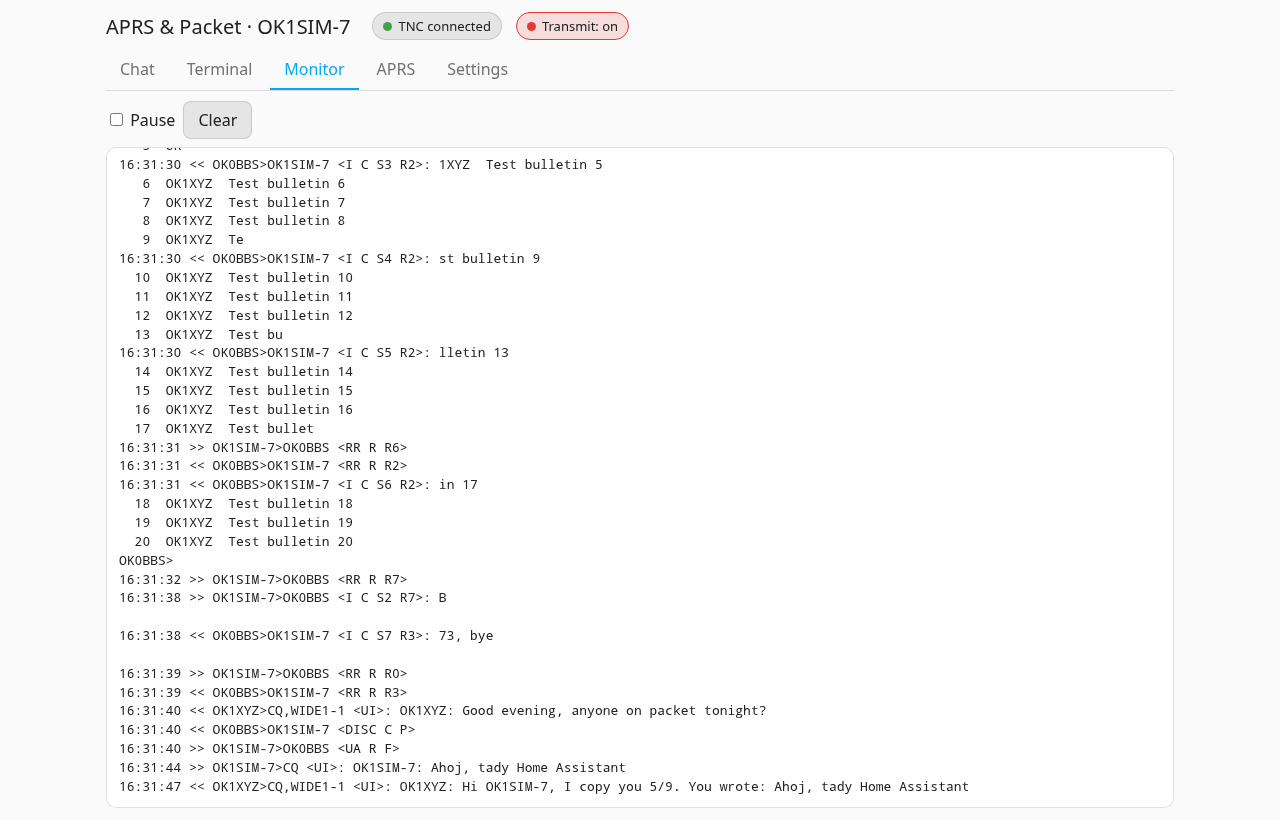
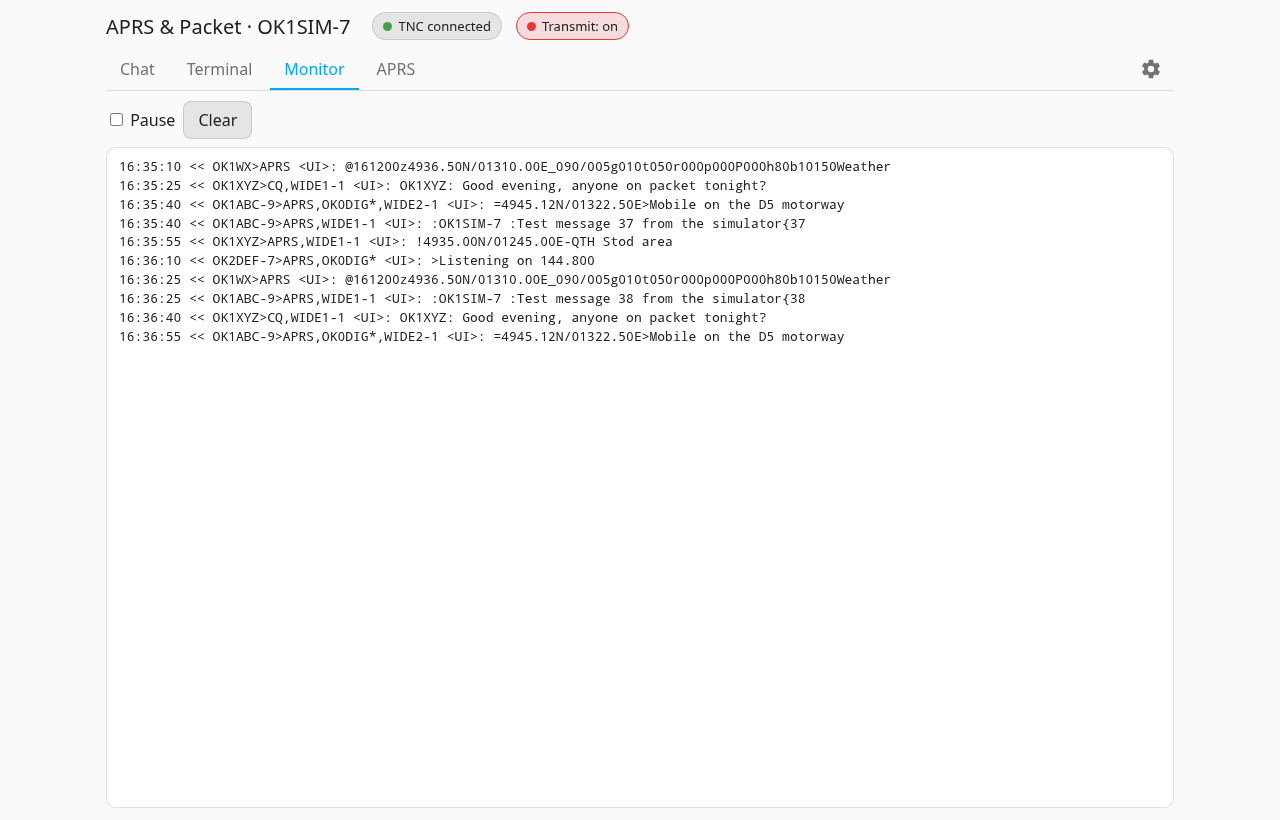
0.3.1: APRS-IS password field, phone-friendly panel

diff --git a/custom_components/aprs_kiss/frontend/aprs-kiss-panel.js b/custom_components/aprs_kiss/frontend/aprs-kiss-panel.js
@@ -32,9 +32,12 @@ const SYMBOLS = [
   ['/o', '🏢', 'EOC (emergency centre)', 'Krizové centrum'], ['/E', '👁', 'Eyeball (event)', 'Akce, pozorování'], ['/$', '☎', 'Phone', 'Telefon'],
 ];
 
+// Material Design Icons "cog" (Apache 2.0), the icon Home Assistant uses for settings.
+const COG = 'M12,15.5A3.5,3.5 0 0,1 8.5,12A3.5,3.5 0 0,1 12,8.5A3.5,3.5 0 0,1 15.5,12A3.5,3.5 0 0,1 12,15.5M19.43,12.97C19.47,12.65 19.5,12.33 19.5,12C19.5,11.67 19.47,11.34 19.43,11L21.54,9.37C21.73,9.22 21.78,8.95 21.66,8.73L19.66,5.27C19.54,5.05 19.27,4.96 19.05,5.05L16.56,6.05C16.04,5.66 15.5,5.32 14.87,5.07L14.5,2.42C14.46,2.18 14.25,2 14,2H10C9.75,2 9.54,2.18 9.5,2.42L9.13,5.07C8.5,5.32 7.96,5.66 7.44,6.05L4.95,5.05C4.73,4.96 4.46,5.05 4.34,5.27L2.34,8.73C2.21,8.95 2.27,9.22 2.46,9.37L4.57,11C4.53,11.34 4.5,11.67 4.5,12C4.5,12.33 4.53,12.65 4.57,12.97L2.46,14.63C2.27,14.78 2.21,15.05 2.34,15.27L4.34,18.73C4.46,18.95 4.73,19.03 4.95,18.95L7.44,17.94C7.96,18.34 8.5,18.68 9.13,18.93L9.5,21.58C9.54,21.82 9.75,22 10,22H14C14.25,22 14.46,21.82 14.5,21.58L14.87,18.93C15.5,18.67 16.04,18.34 16.56,17.94L19.05,18.95C19.27,19.03 19.54,18.95 19.66,18.73L21.66,15.27C21.78,15.05 21.73,14.78 21.54,14.63L19.43,12.97Z';
+
 const TEXTS = {
   en: {
-    settings: 'Settings', callsign: 'Callsign', ssid: 'SSID', symbol: 'Icon (APRS symbol)', comment: 'Position comment', path: 'Digipeater path', beacon: 'Send position every (minutes, 0 = off, at least 10)', tracked: 'Callsigns to track on the map', incoming: 'Accept incoming packet connections', txdelay: 'TX delay sent to the TNC (ms, 0 = leave)', station: 'Station', aprsis: 'APRS-IS (internet)', aprsisOn: 'Connect to APRS-IS', server: 'Server', port: 'Port', passcode: 'Passcode (empty = computed from the callsign)', radius: 'Receive packets within (km of home, 0 = none)', igateRx: 'iGate: send packets heard on the radio to APRS-IS', igateTx: 'iGate: send internet messages to local stations by radio', save: 'Save', saved: 'Saved; the integration restarts with the new settings.', isState: 'APRS-IS', verified: 'logged in', unverified: 'connected, not verified (check the passcode)', disconnectedIs: 'not connected', passAuto: 'computed automatically', igateHint: 'Sending to APRS-IS needs no transmitter; gating to the radio needs Transmit on and a licence.', ssidHint: 'Usual meanings of the SSID:',
+    settings: 'Settings', callsign: 'Callsign', ssid: 'SSID', symbol: 'Icon (APRS symbol)', comment: 'Position comment', path: 'Digipeater path', beacon: 'Send position every (minutes, 0 = off, at least 10)', tracked: 'Callsigns to track on the map', incoming: 'Accept incoming packet connections', txdelay: 'TX delay sent to the TNC (ms, 0 = leave)', station: 'Station', aprsis: 'APRS-IS (internet)', aprsisOn: 'Connect to APRS-IS', server: 'Server', port: 'Port', passcode: 'APRS-IS password (passcode)', show: 'Show', hide: 'Hide', passHint: 'Empty: computed from your callsign (the standard APRS-IS passcode). Enter your own if you were given a different one.', passOwn: 'Your own passcode is saved. Clear the field to compute it from the callsign.', radius: 'Receive packets within (km of home, 0 = none)', igateRx: 'iGate: send packets heard on the radio to APRS-IS', igateTx: 'iGate: send internet messages to local stations by radio', save: 'Save', saved: 'Saved; the integration restarts with the new settings.', isState: 'APRS-IS', verified: 'logged in', unverified: 'connected, not verified (check the passcode)', disconnectedIs: 'not connected', passAuto: 'computed automatically', igateHint: 'Sending to APRS-IS needs no transmitter; gating to the radio needs Transmit on and a licence.', ssidHint: 'Usual meanings of the SSID:',
     chat: 'Chat', showAprs: 'Show APRS packets', chatHint: 'Plain text to everyone: Enter sends it as a UI frame, starting with your callsign.', chatEmpty: 'Nothing heard yet.', chatTo: 'To',
     terminal: 'Terminal', monitor: 'Monitor', aprs: 'APRS', tnc: 'TNC', online: 'connected', offline: 'not connected',
     tx: 'Transmit', on: 'on', off: 'off', connectTo: 'Connect to', via: 'via', connect: 'Connect', disconnect: 'Disconnect',
@@ -45,7 +48,7 @@ const TEXTS = {
     txOffHint: 'Transmitting is off. Switch it on to connect or send.', state: { pending: 'waiting for ack', acked: 'acknowledged', rejected: 'rejected', failed: 'no ack', sent: 'sent' },
   },
   cs: {
-    settings: 'Nastavení', callsign: 'Značka', ssid: 'SSID', symbol: 'Ikona (APRS symbol)', comment: 'Komentář k poloze', path: 'Cesta přes digipeatery', beacon: 'Posílat polohu každých (minut, 0 = ne, nejméně 10)', tracked: 'Značky sledované na mapě', incoming: 'Přijímat příchozí packet spojení', txdelay: 'TX delay pro TNC (ms, 0 = neměnit)', station: 'Stanice', aprsis: 'APRS-IS (internet)', aprsisOn: 'Připojit se k APRS-IS', server: 'Server', port: 'Port', passcode: 'Passcode (prázdné = spočítat ze značky)', radius: 'Přijímat pakety do (km od domova, 0 = žádné)', igateRx: 'iGate: posílat pakety slyšené rádiem do APRS-IS', igateTx: 'iGate: zprávy z internetu pro místní stanice vysílat rádiem', save: 'Uložit', saved: 'Uloženo; integrace se restartuje s novým nastavením.', isState: 'APRS-IS', verified: 'přihlášeno', unverified: 'připojeno, neověřeno (zkontroluj passcode)', disconnectedIs: 'nepřipojeno', passAuto: 'spočítá se automaticky', igateHint: 'Posílání do APRS-IS nepotřebuje vysílač; brána do rádia potřebuje zapnuté vysílání a licenci.', ssidHint: 'Obvyklé významy SSID:',
+    settings: 'Nastavení', callsign: 'Značka', ssid: 'SSID', symbol: 'Ikona (APRS symbol)', comment: 'Komentář k poloze', path: 'Cesta přes digipeatery', beacon: 'Posílat polohu každých (minut, 0 = ne, nejméně 10)', tracked: 'Značky sledované na mapě', incoming: 'Přijímat příchozí packet spojení', txdelay: 'TX delay pro TNC (ms, 0 = neměnit)', station: 'Stanice', aprsis: 'APRS-IS (internet)', aprsisOn: 'Připojit se k APRS-IS', server: 'Server', port: 'Port', passcode: 'Heslo pro APRS-IS (passcode)', show: 'Zobrazit', hide: 'Skrýt', passHint: 'Prázdné: spočítá se z tvé značky (standardní passcode APRS-IS). Zadej vlastní, pokud ti bylo přiděleno jiné.', passOwn: 'Je uložené tvoje vlastní heslo. Smazáním pole se bude počítat ze značky.', radius: 'Přijímat pakety do (km od domova, 0 = žádné)', igateRx: 'iGate: posílat pakety slyšené rádiem do APRS-IS', igateTx: 'iGate: zprávy z internetu pro místní stanice vysílat rádiem', save: 'Uložit', saved: 'Uloženo; integrace se restartuje s novým nastavením.', isState: 'APRS-IS', verified: 'přihlášeno', unverified: 'připojeno, neověřeno (zkontroluj passcode)', disconnectedIs: 'nepřipojeno', passAuto: 'spočítá se automaticky', igateHint: 'Posílání do APRS-IS nepotřebuje vysílač; brána do rádia potřebuje zapnuté vysílání a licenci.', ssidHint: 'Obvyklé významy SSID:',
     chat: 'Chat', showAprs: 'Zobrazit APRS pakety', chatHint: 'Prostý text pro všechny: Enter ho odešle jako UI rámec, na začátku s tvou značkou.', chatEmpty: 'Zatím nic nepřišlo.', chatTo: 'Komu',
     terminal: 'Terminál', monitor: 'Monitor', aprs: 'APRS', tnc: 'TNC', online: 'připojeno', offline: 'nepřipojeno',
     tx: 'Vysílání', on: 'zapnuto', off: 'vypnuto', connectTo: 'Připojit k', via: 'přes', connect: 'Připojit', disconnect: 'Odpojit',
@@ -96,7 +99,46 @@ class AprsKissPanel extends HTMLElement {
     if (first) this._init();
   }
 
-  set narrow(v) { this._narrow = v; }
+  set narrow(v) {
+    this._narrow = v;
+    this._fitViewport();
+    if (this._state) this._renderHeader();
+  }
+
+  // Same approach as MeshCore Chattx: while the on-screen keyboard is open, pin the
+  // whole panel to the visible part of the screen, so the header with Home Assistant's
+  // menu button and the tabs stay on top and the input sits right above the keyboard.
+  _fitViewport() {
+    const vv = window.visualViewport;
+    if (!vv) return;
+    if (vv.scale > 1.01) { this._unpin(); return; }   // pinch zoom, not the keyboard
+    if (Math.abs(vv.width - (this._vvWidth || 0)) > 1) { this._vvWidth = vv.width; this._vvFull = vv.height; }
+    this._vvFull = Math.max(this._vvFull || 0, vv.height);
+    const keyboard = this._vvFull - vv.height >= 120;
+    // On a phone the panel is always pinned to the screen: the page itself never scrolls,
+    // only the content under the header does, so the header can't be scrolled away.
+    if (!keyboard && !this._narrow) { this._unpin(); return; }
+    this._pinned = true;
+    Object.assign(this.style, { position: 'fixed', top: `${vv.offsetTop}px`, left: '0', width: '100%', height: `${vv.height}px` });
+    this.shadowRoot.querySelector('.page')?.classList.toggle('kbd', keyboard && !!this._narrow);
+  }
+
+  _unpin() {
+    if (!this._pinned) return;
+    this._pinned = false;
+    for (const k of ['position', 'top', 'left', 'width', 'height']) this.style.removeProperty(k);
+    this.shadowRoot.querySelector('.page')?.classList.remove('kbd');
+    window.scrollTo(0, 0);
+  }
+
+  connectedCallback() {
+    if (!this._onVv && window.visualViewport) {
+      this._onVv = () => this._fitViewport();
+      window.visualViewport.addEventListener('resize', this._onVv);
+      window.visualViewport.addEventListener('scroll', this._onVv);
+      this._fitViewport();
+    }
+  }
 
   async _init() {
     this._renderShell();
@@ -106,6 +148,12 @@ class AprsKissPanel extends HTMLElement {
   }
 
   disconnectedCallback() {
+    if (this._onVv) {
+      window.visualViewport.removeEventListener('resize', this._onVv);
+      window.visualViewport.removeEventListener('scroll', this._onVv);
+      this._onVv = null;
+      this._unpin();
+    }
     this._unsub?.();
     this._unsubState?.();
   }
@@ -177,8 +225,11 @@ class AprsKissPanel extends HTMLElement {
     this.shadowRoot.innerHTML = `
       <link rel="stylesheet" href="${LEAFLET_CSS}">
       <style>
-        :host { display: block; height: 100%; background: var(--primary-background-color); color: var(--primary-text-color); font-family: var(--paper-font-body1_-_font-family, Roboto, sans-serif); }
-        .page { display: flex; flex-direction: column; height: 100%; max-width: 1100px; margin: 0 auto; box-sizing: border-box; padding: 12px 16px; gap: 10px; }
+        :host { display: block; height: 100%; overscroll-behavior: none; background: var(--primary-background-color); color: var(--primary-text-color); font-family: var(--paper-font-body1_-_font-family, Roboto, sans-serif); }
+        .page { display: flex; flex-direction: column; height: 100%; min-height: 0; max-width: 1100px; margin: 0 auto; box-sizing: border-box; padding: 12px 16px; gap: 10px; }
+        /* Like a Home Assistant dashboard: the header with the menu button and the tabs stay on top while the rest scrolls. */
+        .top { position: sticky; top: 0; z-index: 10; display: flex; flex-direction: column; gap: 10px; flex-shrink: 0;
+               margin: -12px -16px 0; padding: calc(12px + env(safe-area-inset-top, 0px)) 16px 0; background: var(--primary-background-color); }
         header { display: flex; flex-wrap: wrap; align-items: center; gap: 8px 14px; }
         h1 { font-size: 20px; margin: 0 8px 0 0; font-weight: 500; }
         .chip { display: inline-flex; align-items: center; gap: 6px; padding: 4px 10px; border-radius: 14px; font-size: 13px; background: var(--secondary-background-color); border: 1px solid var(--divider-color); }
@@ -188,6 +239,7 @@ class AprsKissPanel extends HTMLElement {
         button.chip.tx-on { background: rgba(229, 57, 53, 0.15); border-color: #e53935; }
         nav { display: flex; gap: 4px; border-bottom: 1px solid var(--divider-color); }
         nav button { background: none; border: none; padding: 8px 14px; font: inherit; color: var(--secondary-text-color); cursor: pointer; border-bottom: 2px solid transparent; }
+        nav button.gear { margin-left: auto; display: inline-flex; align-items: center; padding: 6px 12px; }
         nav button.active { color: var(--primary-color); border-bottom-color: var(--primary-color); }
         main { flex: 1; min-height: 0; display: flex; flex-direction: column; gap: 8px; }
         .row { display: flex; flex-wrap: wrap; gap: 8px; align-items: center; }
@@ -204,8 +256,10 @@ class AprsKissPanel extends HTMLElement {
         .chatline.out .c { color: var(--primary-color); }
         .chatline.aprs { color: var(--secondary-text-color); font-size: 13px; }
         .chatline .to { color: var(--secondary-text-color); font-size: 12px; margin-right: 4px; }
-        .form { display: grid; grid-template-columns: repeat(auto-fit, minmax(320px, 1fr)); gap: 12px; overflow: auto; padding-bottom: 12px; }
-        .form .card { display: flex; flex-direction: column; gap: 10px; }
+        .form { display: grid; grid-template-columns: repeat(auto-fit, minmax(min(320px, 100%), 1fr)); gap: 12px; overflow: auto; padding-bottom: 12px; }
+        .form .card { display: flex; flex-direction: column; gap: 10px; overflow: visible; min-height: auto; min-width: 0; }
+        .form input:not([type=checkbox]), .form select { width: 100%; min-width: 0; box-sizing: border-box; } .form .callrow input { width: auto; } .form .callrow select { width: 90px; flex: none; }
+        .form { align-content: start; } .callrow input.f-pass { text-transform: none; }
         .field { display: flex; flex-direction: column; gap: 4px; font-size: 13px; color: var(--secondary-text-color); }
         .field input, .field select { color: var(--primary-text-color); }
         .field.check { flex-direction: row; align-items: center; gap: 8px; color: var(--primary-text-color); font-size: 14px; }
@@ -225,7 +279,40 @@ class AprsKissPanel extends HTMLElement {
         table { width: 100%; border-collapse: collapse; font-size: 13px; }
         td, th { text-align: left; padding: 4px 6px; border-bottom: 1px solid var(--divider-color); vertical-align: top; }
         th { color: var(--secondary-text-color); font-weight: 500; }
-        .map { height: 380px; border-radius: 10px; overflow: hidden; }
+        .map { height: 380px; border-radius: 10px; overflow: hidden; position: relative; z-index: 0; }
+        .menu:empty { display: none; }
+        .menu { margin: -8px 0 -8px -8px; color: var(--primary-text-color); }
+        nav { overflow-x: auto; scrollbar-width: none; flex-shrink: 0; }
+        nav::-webkit-scrollbar { display: none; }
+        nav button { flex-shrink: 0; white-space: nowrap; }
+        .msgrow .to { width: 120px; } .msgrow .text { flex: 1; min-width: 160px; }
+        main.scroll { overflow-y: auto; }
+        main.scroll .cols { flex: none; } main.scroll .card { flex-shrink: 0; }
+        @media (max-width: 600px) {
+          .page { padding: 8px 10px; gap: 8px; }
+          main { overflow-y: auto; overscroll-behavior: contain; }
+          pre, .chatlog { min-height: 120px; }
+          .top { margin: -8px -10px 0; padding: calc(8px + env(safe-area-inset-top, 0px)) 10px 0; gap: 8px; }
+          h1 { font-size: 17px; }
+          .chip { font-size: 12px; padding: 3px 8px; }
+          nav button { padding: 8px 10px; }
+          input, select, textarea { font-size: 16px; }  /* no zoom on iPhone */
+          .controls label { display: flex; align-items: center; gap: 6px; flex: 1 1 140px; }
+          .controls input { flex: 1; width: auto; min-width: 0; }
+          .row label { flex: 1 1 140px; display: flex; align-items: center; gap: 6px; } .row label input { flex: 1; min-width: 0; width: auto; }
+          .controls label input[type=checkbox], .row label input[type=checkbox] { flex: none; width: auto; }
+          .msgrow .to { width: 100px; } .msgrow .text { min-width: 0; flex: 1 1 140px; } .msgrow .btn { flex: 1 0 100%; }
+          pre { font-size: 12px; padding: 8px; }
+          .map { height: 260px; }
+          .msgs { max-height: 50vh; }
+          .pos { display: none; }
+          table { font-size: 12px; } td, th { padding: 4px; }
+          .form { grid-template-columns: minmax(0, 1fr); }
+          .chatline { font-size: 14px; }
+          .line .btn { padding: 7px 12px; }
+        }
+        .page.kbd .hint { display: none; }
+        .page.kbd pre, .page.kbd .chatlog { min-height: 60px; }
         .leaflet-container { background: var(--secondary-background-color); font: inherit; }
         .leaflet-tooltip.call-label { background: var(--card-background-color); color: var(--primary-text-color); border: 1px solid var(--divider-color) !important; box-shadow: 0 1px 3px rgba(0,0,0,.3); padding: 1px 5px; font-size: 11px; }
         .wx { display: inline-block; }
@@ -233,7 +320,7 @@ class AprsKissPanel extends HTMLElement {
         .call-label::before { display: none; }
       </style>
 
-      <div class="page"><header></header><nav></nav><main></main></div>`;
+      <div class="page"><div class="top"><header></header><nav></nav></div><main></main></div>`;
   }
 
   _render() {
@@ -241,13 +328,16 @@ class AprsKissPanel extends HTMLElement {
     this._renderHeader();
     const t = this._t;
     const nav = this.shadowRoot.querySelector('nav');
-    nav.innerHTML = ['chat', 'terminal', 'monitor', 'aprs', 'settings'].map((k) => `<button data-tab="${k}" class="${this._tab === k ? 'active' : ''}">${t[k]}</button>`).join('');
+    nav.innerHTML = ['chat', 'terminal', 'monitor', 'aprs', 'settings'].map((k) => k === 'settings'
+      ? `<button data-tab="${k}" class="gear ${this._tab === k ? 'active' : ''}" title="${t[k]}" aria-label="${t[k]}"><svg viewBox="0 0 24 24" width="22" height="22" aria-hidden="true"><path fill="currentColor" d="${COG}"/></svg></button>`
+      : `<button data-tab="${k}" class="${this._tab === k ? 'active' : ''}">${t[k]}</button>`).join('');
     nav.querySelectorAll('button').forEach((b) => b.addEventListener('click', () => {
       this._tab = b.dataset.tab;
       localStorage.setItem('aprs-kiss-tab', this._tab);
       this._render();
     }));
     const main = this.shadowRoot.querySelector('main');
+    main.classList.remove('scroll');
     if (!this._state) {
       main.innerHTML = `<div class="error">${esc(this._error)}</div>`;
       return;
@@ -270,10 +360,18 @@ class AprsKissPanel extends HTMLElement {
     }
     const sessions = Object.entries(s.sessions || {}).map(([k, v]) => `${k}: ${v}`).join(', ');
     header.innerHTML = `
+      <span class="menu"></span>
       <h1>APRS & Packet · ${esc(s.callsign)}</h1>
       <span class="chip"><span class="dot ${s.tnc_connected ? 'ok' : 'bad'}"></span>${t.tnc} ${s.tnc_connected ? t.online : t.offline}</span>
       <button class="chip ${s.tx_enabled ? 'tx-on' : ''}" id="tx"><span class="dot ${s.tx_enabled ? 'bad' : ''}"></span>${t.tx}: ${s.tx_enabled ? t.on : t.off}</button>
       ${sessions ? `<span class="chip">${esc(sessions)}</span>` : ''}`;
+    if (this._narrow) {
+      // On a phone Home Assistant hides its sidebar: this button opens it.
+      const menu = document.createElement('ha-menu-button');
+      menu.hass = this._hass;
+      menu.narrow = true;
+      header.querySelector('.menu').appendChild(menu);
+    }
     header.querySelector('#tx').addEventListener('click', async () => {
       const r = await this._ws({ type: 'aprs_kiss/set_tx', enabled: !s.tx_enabled });
       if (r) { s.tx_enabled = r.tx_enabled; this._render(); }
@@ -376,6 +474,7 @@ class AprsKissPanel extends HTMLElement {
   async _renderSettings(main) {
     const t = this._t;
     const cs = (this._hass.language || '').startsWith('cs');
+    main.classList.add('scroll');
     main.innerHTML = '<div class="hint">…</div>';
     const st = await this._ws({ type: 'aprs_kiss/get_settings' });
     if (!st) { main.innerHTML = `<div class="error">${esc(this._error)}</div>`; return; }
@@ -407,7 +506,10 @@ class AprsKissPanel extends HTMLElement {
           ${isLine}
           <label class="field">${t.server}<input class="f-host" value="${esc(st.aprsis_host || 'euro.aprs2.net')}"></label>
           <label class="field">${t.port}<input class="f-port" type="number" value="${st.aprsis_port || 14580}"></label>
-          <label class="field">${t.passcode}<input class="f-pass" value="${esc(st.aprsis_passcode || '')}" placeholder="${t.passAuto}" type="password" autocomplete="off"></label>
+          <label class="field">${t.passcode}
+            <div class="callrow"><input class="f-pass" value="${esc(st.aprsis_passcode || '')}" placeholder="${t.passAuto}" type="password" inputmode="numeric" autocomplete="off">
+            <button type="button" class="btn secondary f-showpass">${t.show}</button></div>
+            <span>${st.aprsis_passcode ? t.passOwn : t.passHint}</span></label>
           <label class="field">${t.radius}<input class="f-radius" type="number" min="0" max="500" value="${st.aprsis_radius_km ?? 50}"></label>
           <label class="field check"><input type="checkbox" class="f-irx" ${st.igate_rx ? 'checked' : ''}> ${t.igateRx}</label>
           <label class="field check"><input type="checkbox" class="f-itx" ${st.igate_tx ? 'checked' : ''}> ${t.igateTx}</label>
@@ -416,6 +518,11 @@ class AprsKissPanel extends HTMLElement {
       </div>
       <div class="row"><button class="btn save">${t.save}</button><span class="msg-saved"></span><span class="error">${esc(this._error)}</span></div>`;
     const q = (c) => main.querySelector(c);
+    q('.f-showpass').addEventListener('click', () => {
+      const f = q('.f-pass');
+      f.type = f.type === 'password' ? 'text' : 'password';
+      q('.f-showpass').textContent = f.type === 'password' ? t.show : t.hide;
+    });
     q('.f-ssid').addEventListener('change', (e) => { q('.ssid-meaning').textContent = SSIDS[cs ? 'cs' : 'en'][Number(e.target.value)]; });
     q('.save').addEventListener('click', async () => {
       const call = q('.f-call').value.trim().toUpperCase();
@@ -523,23 +630,24 @@ class AprsKissPanel extends HTMLElement {
     const t = this._t;
     const msgs = [...this._state.messages].reverse();
     const heard = [...this._state.heard].sort((a, b) => b.last_heard - a.last_heard);
+    main.classList.add('scroll');
     main.innerHTML = `
-      <div class="row">
+      <div class="row msgrow">
         <input class="call to" placeholder="${t.to}" value="${esc(this._msgTo || '')}">
-        <input class="text" style="flex:1;min-width:180px" maxlength="67" placeholder="${t.message}">
+        <input class="text" maxlength="67" placeholder="${t.message}">
         <button class="btn sendmsg">${t.send}</button>
       </div>
       <div class="error">${esc(this._error)}</div>
       <div class="card"><h2>${t.map}</h2><div class="map"></div></div>
       <div class="cols">
-        <div class="card"><h2>${t.messages}</h2>${msgs.length ? msgs.map((m) => `
+        <div class="card msgs"><h2>${t.messages}</h2>${msgs.length ? msgs.map((m) => `
           <div class="msg ${m.direction}">${esc(m.text)}
             <small>${m.direction === 'in' ? esc(m.from) : '→ ' + esc(m.to)} · ${time(m.time)}${m.direction === 'out' && m.state ? ' · ' + esc(t.state[m.state] || m.state) : ''}</small></div>`).join('') : `<div class="hint">${t.noMessages}</div>`}
         </div>
         <div class="card"><h2>${t.heard}</h2><table>
-          <tr><th>Call</th><th>${t.lastHeard}</th><th>${t.position}</th><th>${t.comment}</th></tr>
+          <tr><th>Call</th><th>${t.lastHeard}</th><th class="pos">${t.position}</th><th>${t.comment}</th></tr>
           ${heard.map((h) => `<tr><td>${esc(h.call)}</td><td>${time(h.last_heard)}</td>
-            <td>${h.latitude != null ? `${h.latitude.toFixed(4)}, ${h.longitude.toFixed(4)}` : ''}</td><td>${h.weather ? `<span class="wx">🌡 ${esc(wxText(h.weather))}</span><br>` : ''}${esc(h.comment || h.status || '')}</td></tr>`).join('')}
+            <td class="pos">${h.latitude != null ? `${h.latitude.toFixed(4)}, ${h.longitude.toFixed(4)}` : ''}</td><td>${h.weather ? `<span class="wx">🌡 ${esc(wxText(h.weather))}</span><br>` : ''}${esc(h.comment || h.status || '')}</td></tr>`).join('')}
         </table></div>
       </div>`;
     const send = async () => {
@@ -607,4 +715,4 @@ AprsKissPanel.prototype._renderMap = async function renderMap(el, heard) {
   setTimeout(() => map.invalidateSize(), 100);
 };
 
-customElements.define('aprs-kiss-panel', AprsKissPanel);
+if (!customElements.get('aprs-kiss-panel')) customElements.define('aprs-kiss-panel', AprsKissPanel);

diff --git a/custom_components/aprs_kiss/const.py b/custom_components/aprs_kiss/const.py
@@ -29,7 +29,7 @@ DEFAULT_SYMBOL = "/-"
 DEFAULT_APRSIS_HOST = "euro.aprs2.net"
 DEFAULT_APRSIS_PORT = 14580
 DEFAULT_APRSIS_RADIUS = 50
-VERSION = "0.3.0"
+VERSION = "0.3.1"
 
 EVENT_PACKET = f"{DOMAIN}_packet"      # every decoded APRS packet
 EVENT_MESSAGE = f"{DOMAIN}_message"    # an APRS message addressed to us

diff --git a/README.md b/README.md
@@ -35,7 +35,17 @@ It was built and tested for a **Quansheng UV-K1 / UV-K5 V3** running the **F4HWN
 <td colspan="2"><picture><source media="(prefers-color-scheme: light)" srcset="assets/settings-light.png"><img src="assets/settings.png" alt="Settings: station, icon, APRS-IS and iGate"></picture></td>
 </tr>
 <tr>
-<td colspan="2"><b>Settings</b>: callsign and SSID with their usual meaning, the APRS icon from the common symbols, beacon, tracked stations, APRS-IS and iGate.</td>
+<td colspan="2"><b>Settings</b>: callsign and SSID with their usual meaning, the APRS icon from the common symbols, beacon, tracked stations, APRS-IS (with its password) and iGate.</td>
+</tr>
+</table>
+
+On a phone (the Home Assistant app or a mobile browser) the panel fits the screen: the header with the ☰ button (Home Assistant's sidebar), the TNC and Transmit status and the tabs (⚙ is Settings) always stays on top, also with the keyboard open; only the content below it scrolls.
+
+<table>
+<tr>
+<td width="25%"><picture><source media="(prefers-color-scheme: light)" srcset="assets/phone-chat-light.png"><img src="assets/phone-chat.png" alt="Chat on a phone"></picture></td>
+<td width="25%"><picture><source media="(prefers-color-scheme: light)" srcset="assets/phone-aprs-light.png"><img src="assets/phone-aprs.png" alt="APRS map on a phone"></picture></td>
+<td width="50%"></td>
 </tr>
 </table>
 
@@ -278,7 +288,7 @@ actions:
 
 APRS-IS is the internet side of APRS ([aprs-is.net](https://www.aprs-is.net)); [aprs.fi](https://aprs.fi) shows what reaches it. In **Settings → APRS-IS**:
 
-1. **Connect to APRS-IS**: server `euro.aprs2.net` (or `rotate.aprs2.net`, `noam.aprs2.net`, …), port 14580. The **passcode** is computed from your callsign automatically; enter one only if yours differs. The status line shows *logged in* and the server once the server has verified the passcode.
+1. **Connect to APRS-IS**: server `euro.aprs2.net` (or `rotate.aprs2.net`, `noam.aprs2.net`, …), port 14580. The **APRS-IS password (passcode)** is computed from your callsign automatically when the field is empty; enter yours if you were given a different one (*Show* reveals what you typed). The status line shows *logged in* and the server once the server has verified the passcode.
 2. **Receive packets within … km**: a range filter around Home Assistant's home for the internet traffic the integration receives.
 3. **Messages to you from the internet** arrive like radio messages (event `aprs_kiss_message`, sensor *Last message*) and are acknowledged over the internet.
 4. **Your own packets** (position, status, messages) go to APRS-IS as well while connected, also with transmitting off: Home Assistant can then message APRS stations through the internet alone.

diff --git a/CHANGELOG.md b/CHANGELOG.md
@@ -1,5 +1,16 @@
 # Changelog
 
+## [0.3.1] - 2026-11-16
+
+- Settings: a clear *APRS-IS password (passcode)* field with Show/Hide; empty means computed from the callsign.
+- The panel works well on a phone:
+  - the header with the ☰ button (opens Home Assistant's sidebar), the TNC and Transmit status and the tabs always stays on top; the panel is pinned to the screen and only the content below the header scrolls;
+  - with the on-screen keyboard open (Chat, Terminal) the panel fits the visible part of the screen (as in MeshCore Chattx): the input sits right above the keyboard, the latest lines above it;
+  - Settings is a gear icon at the end of the tab bar, so all tabs fit;
+  - forms take one column and never get wider than the screen, inputs don't make iOS zoom, the APRS map and message list fit the screen.
+- No error when the panel script is loaded twice (e.g. the app kept an older copy).
+- New screenshots, including a phone, light and dark.
+
 ## [0.3.0] - 2026-11-16
 
 - Settings tab: callsign and SSID with the usual meaning of each SSID, the APRS icon from the 30 most common symbols, comment, path, a regular position beacon (every N minutes, at least 10), tracked callsigns, incoming connections, TX delay. Saving restarts the integration with the new settings.
